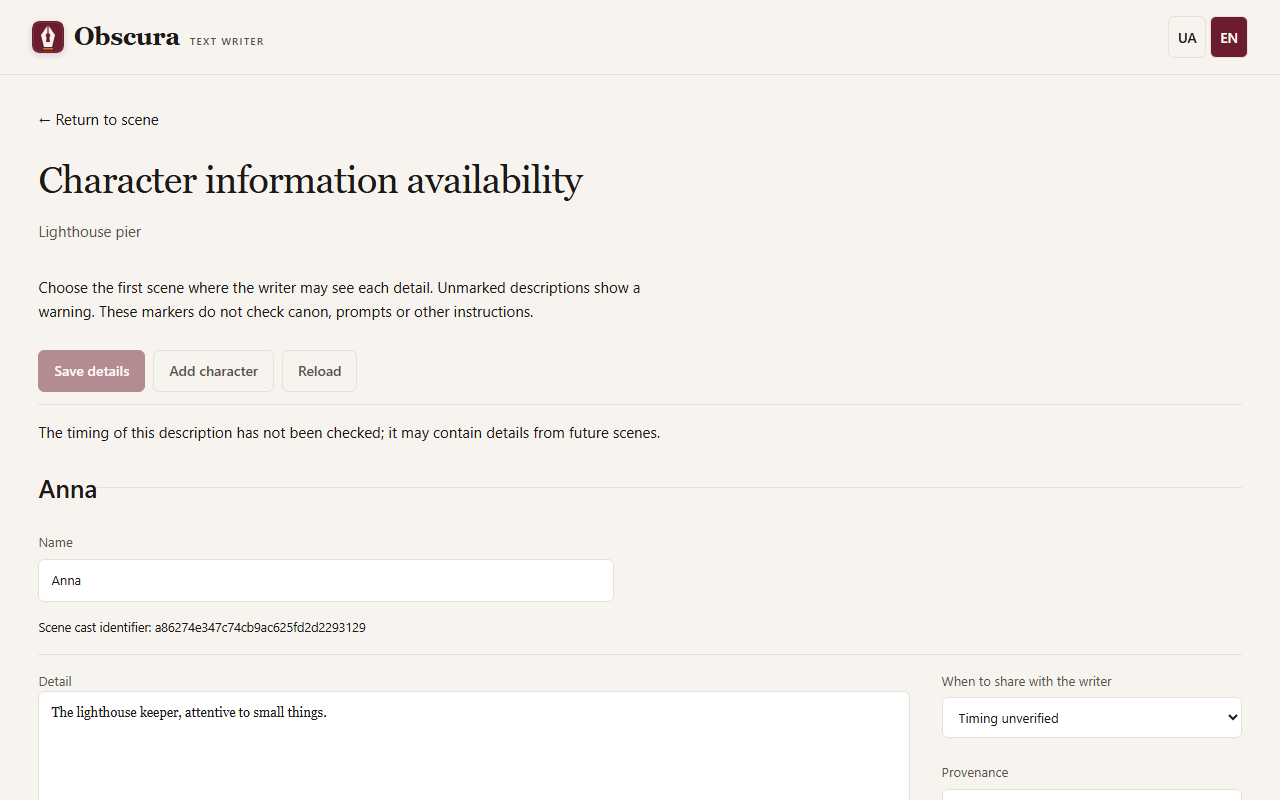
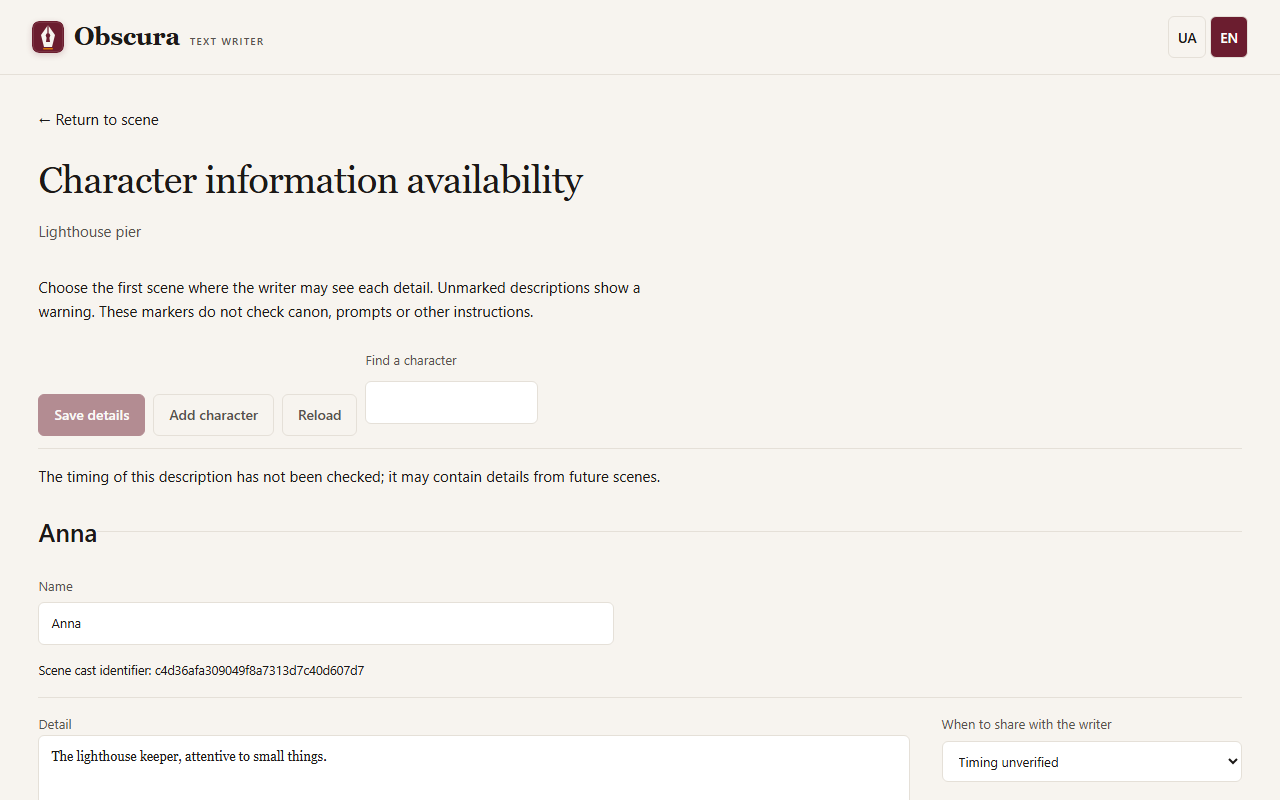
docs(characters): card search in SPEC, site and manual procedure (#75)

diff --git a/SPEC.MD b/SPEC.MD
@@ -2930,6 +2930,16 @@ CAS-конфлікт не стирає буфер. Перемикання UA/EN 
 - AND повернення відновлює сцену й матеріал, незбережені правки захищені під час виходу
 - AND порожній твір без сцен допускає редагування карток із недоступним preview.
 
+Поле «Знайти персонажа» (`#characters-find`, `datalist` з назвами карток) у панелі інструментів редактора SHALL ховати картки (`hidden`), назва чи інше ім’я ([CHARACTER-NAMES](#character-names)) яких не містить запиту після нормалізації (NFKC, регістр, апострофи, пробіли); картка без назви й картка з фокусом не ховаються. Статус показує «Показано N з M» або «Немає персонажів за запитом». Фільтр застосовується після введення запиту, кожного перемальовування, кожної правки й виходу фокусу з картки. Перехід (`scrollIntoView` і фокус у поле імені) — лише на Enter або вибір із підказок; ціль — картка з точним збігом імені, інакше перша показана; звичайне введення фокус не переносить. Буфер карток не змінюється: збереження й preview надсилають усі картки. Форма має `novalidate`; збереження й preview спершу знімають фільтр, якщо прихована картка має невалідне поле, і лише тоді викликають `reportValidity()`. «Додати персонажа» знімає фільтр і переносить фокус у нову картку. Правило інших імен у `characters-state.js` (`cardNames`) дублює `characters/names.py`; тест порівнює обидва. Стан фільтра не зберігається після перезавантаження.
+
+<a id="character-time-s04"></a>
+#### Scenario: CHARACTER-TIME-S04 — Пошук картки
+- GIVEN сторінка «Персонажі» з картками «Маріанна», «Анна» і «Хазяїн» з «Інше ім’я: Джон»
+- WHEN автор вводить «джон» у «Знайти персонажа» і натискає Enter
+- THEN видно лише «Хазяїн», статус «Показано 1 з 3», фокус у полі його імені
+- AND вибір «Анна» з підказок переносить до «Анна», а введення фокус не переносить
+- AND правка під фільтром зберігається разом з усіма картками; порожнє обов’язкове поле прихованої картки знімає фільтр під час збереження; заміна знайденого імені ховає картку після виходу з неї; «Додати персонажа» знімає фільтр; ширина телефона без горизонтальної прокрутки.
+
 Fsck перевіряє всі історичні картки v1/v2, IDs, точні цитати/власність і anchors.
 Архівна anchor того самого твору не псує історію; для поточної картки активного
 твору це limitation `archived_character_anchor`, а не corruption. Backup/restore

diff --git a/docs/verification/manual.md b/docs/verification/manual.md
@@ -172,6 +172,13 @@ R-22 прокрутка: Playwright `long draft scrolls internally while formatt
 Перевірки desktop/mobile: перехід і повернення до prose, додавання картки, довгий опис, UA/EN без втрати вводу, preview, save, порожній твір без сцен, відмова від виходу з dirty, CAS409 без втрати правок. Переглянути нейтральні `docs/images/characters-page-desktop.png` і `characters-page-mobile.png`: поля видимі, немає горизонтального переповнення.
 
 
+<a id="characters-find"></a>
+## Пошук картки на сторінці персонажів
+
+Запустити `node frontend/node_modules/@playwright/test/cli.js test --config frontend/playwright.config.mjs characters-page -g "find a character" --reporter=line`.
+Перевірки desktop/mobile (CHARACTER-TIME-S04): фільтр за іншим ім'ям, статус «Показано 1 з 3», Enter переносить фокус, вибір «Анна» з підказок за наявності «Маріанна», введення не переносить фокус, правка під фільтром і збереження всіх карток, зняття фільтра за порожнього поля прихованої картки, приховування після виходу з картки, «Додати персонажа» знімає фільтр, без горизонтальної прокрутки.
+
+
 <a id="additive-import-ui"></a>
 ## Інтерфейс письма та доповнювального імпорту
 

diff --git a/docs/site/uk/characters.md b/docs/site/uk/characters.md
@@ -8,6 +8,8 @@
 
 Кнопки вгорі зберігають картки, додають персонажа або перезавантажують збережене. Кожна картка складається з відомостей; суцільний імпортований опис можна розділити на відомості за порожніми абзацами. Нові відомості, написані вручну, мають походження «Авторське твердження», а імпортовані зберігають цитати джерела.
 
+Поле **Знайти персонажа** поруч із кнопками лишає лише картки, у назві чи [іншому імені](#інші-імена) яких є введений текст, і показує, скільки карток видно. Enter або вибір імені з підказок переносить до картки й ставить курсор у поле імені. Картки лише ховаються: правки не губляться, а **Зберегти відомості** зберігає всі картки. Якщо прихована картка має незаповнене поле, фільтр знімається, щоб його було видно. **Додати персонажа** теж знімає фільтр.
+
 ## Коли персонаж з’являється
 
 Для кожної відомості оберіть:

diff --git a/docs/site/en/characters.md b/docs/site/en/characters.md
@@ -8,6 +8,8 @@ Open **Characters** in the story's top row. The separate page has wide descripti
 
 The buttons at the top save the cards, add a character or reload what is saved. Each card consists of entries; a solid imported description can be split into entries at blank paragraphs. Entries written by hand are marked "Author statement", and imported ones keep their source quotations.
 
+The **Find a character** field next to the buttons keeps only the cards whose title or [other name](#other-names) contains the text you type, and shows how many cards are visible. Enter or picking a name from the suggestions moves to that card and puts the cursor in its name field. Cards are only hidden: your edits are kept, and **Save details** saves every card. If a hidden card has an empty required field, the filter is cleared so you can see it. **Add character** clears the filter too.
+
 ## When a character appears
 
 For each entry choose:
